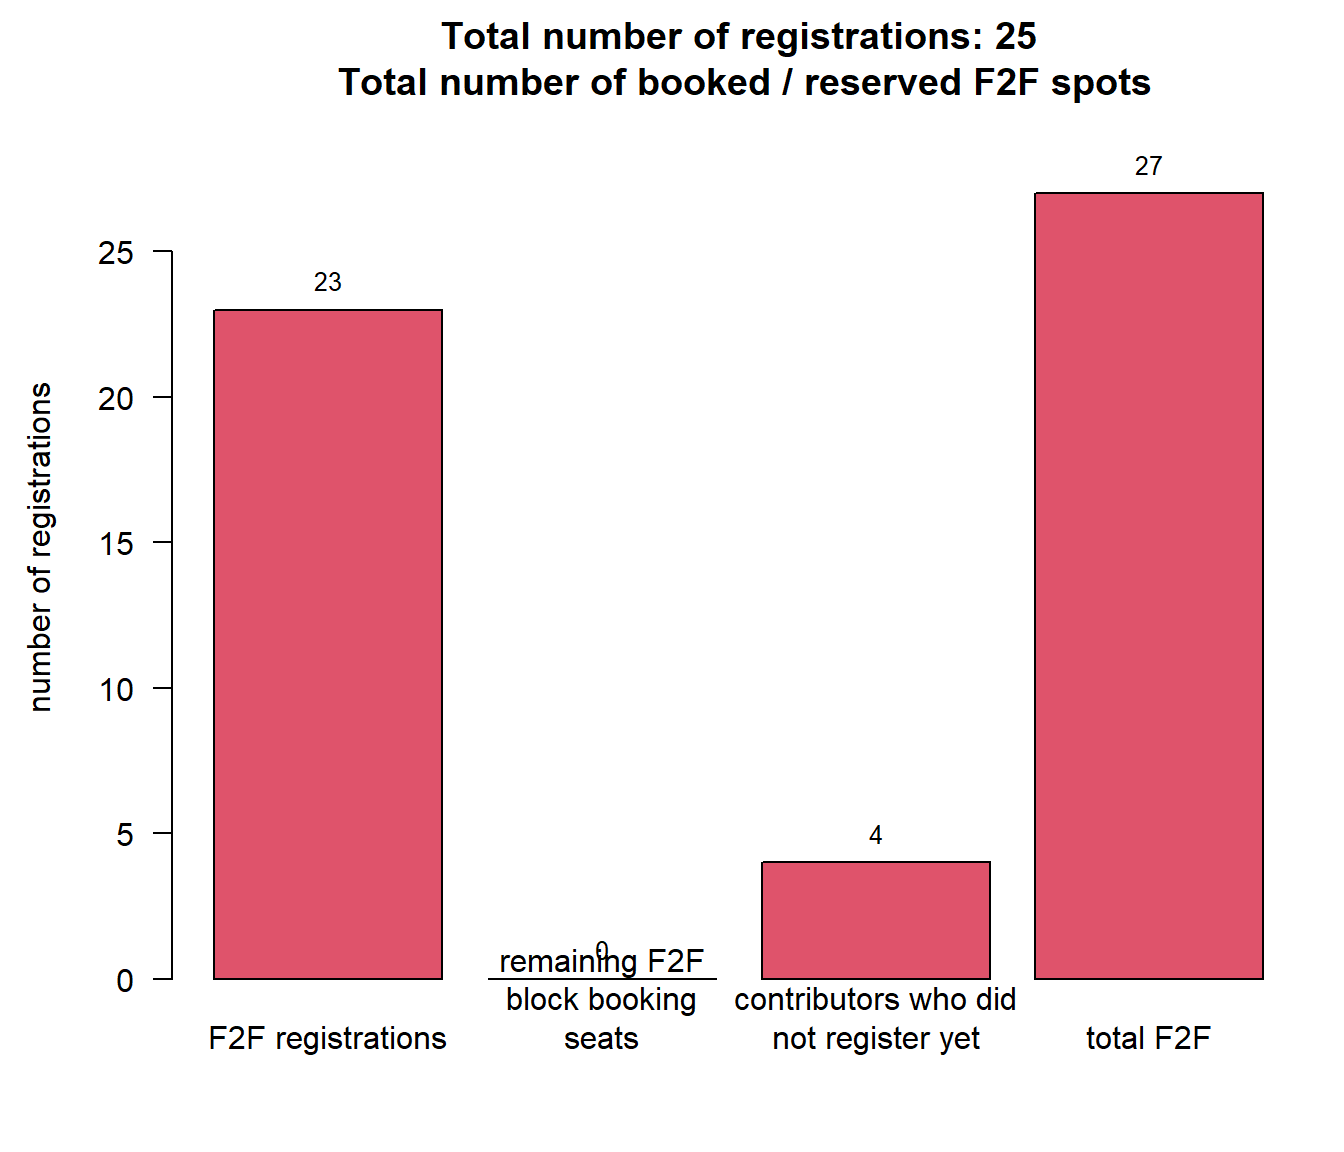
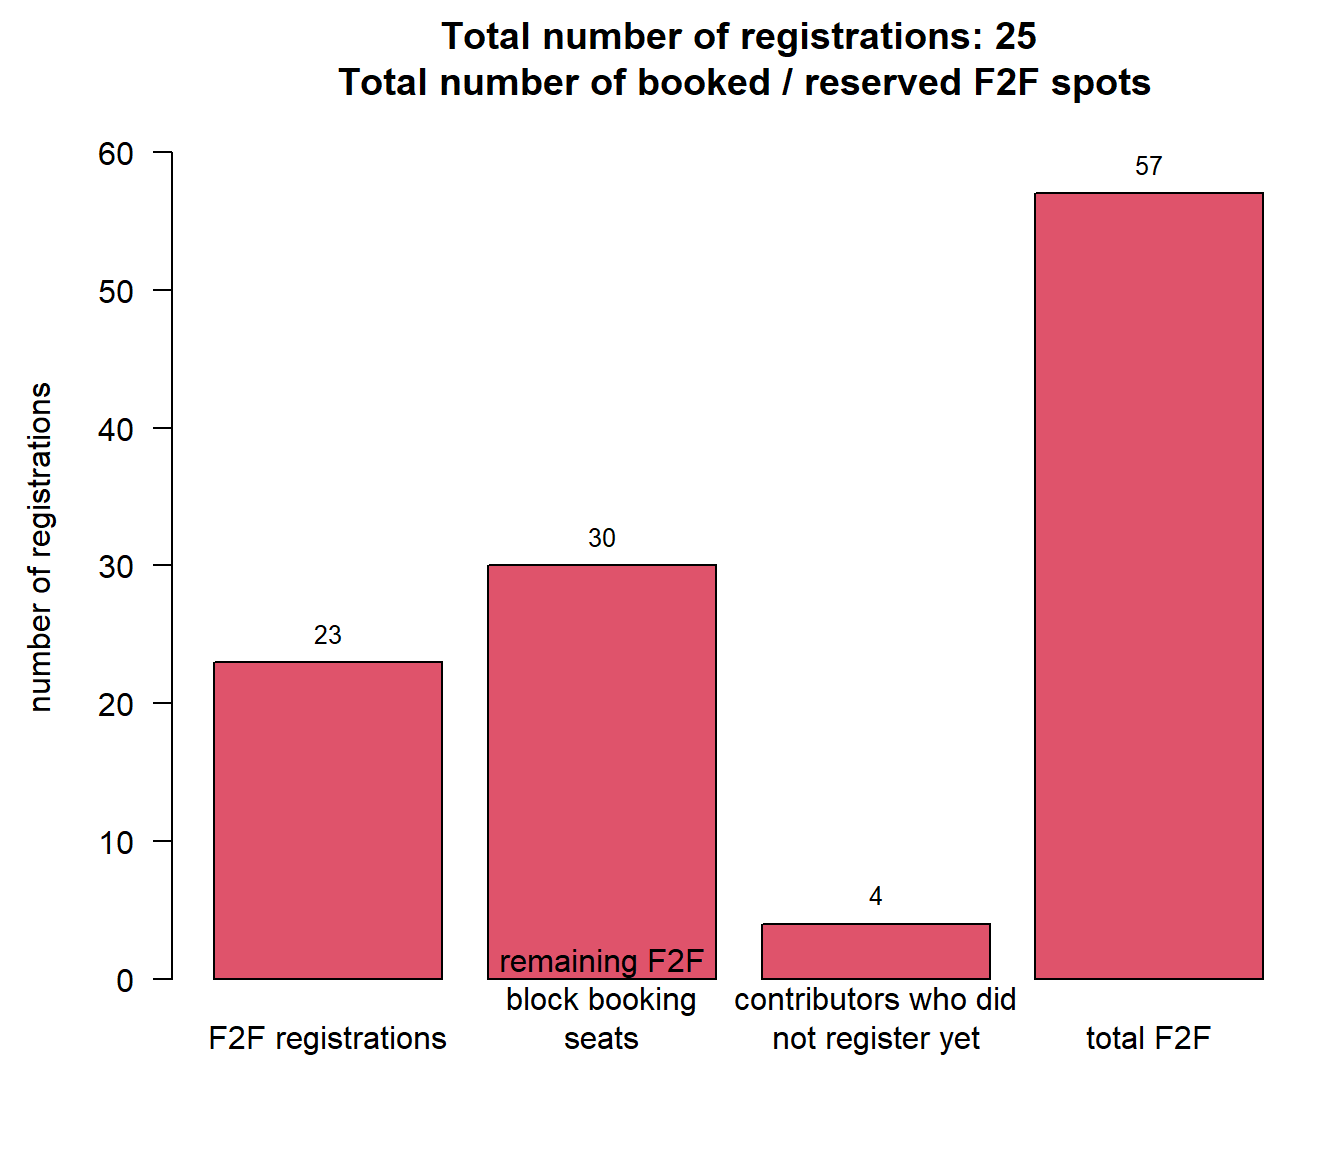
update

diff --git a/docs/registration_faq.html b/docs/registration_faq.html
@@ -205,10 +205,10 @@ ul.task-list li input[type="checkbox"] {
   </ul></li>
   <li><a href="#block-booking-for-face-to-face-and-virtual-participation-how-to-register" id="toc-block-booking-for-face-to-face-and-virtual-participation-how-to-register" class="nav-link" data-scroll-target="#block-booking-for-face-to-face-and-virtual-participation-how-to-register">Block booking for face-to-face AND virtual participation: how to register</a>
   <ul class="collapse">
-  <li><a href="#none-yet" id="toc-none-yet" class="nav-link" data-scroll-target="#none-yet">None yet</a></li>
+  <li><a href="#novartis" id="toc-novartis" class="nav-link" data-scroll-target="#novartis">Novartis</a></li>
   </ul></li>
   <li><a href="#block-booking-for-virtual-participation-only-how-to-register" id="toc-block-booking-for-virtual-participation-only-how-to-register" class="nav-link" data-scroll-target="#block-booking-for-virtual-participation-only-how-to-register">Block booking for virtual participation only: how to register</a></li>
-  <li><a href="#my-company-merck-kgaa-has-a-block-booking-for-virtual-participation-only.-i-still-want-to-attend-face-to-face.-how-much-do-i-need-to-pay" id="toc-my-company-merck-kgaa-has-a-block-booking-for-virtual-participation-only.-i-still-want-to-attend-face-to-face.-how-much-do-i-need-to-pay" class="nav-link" data-scroll-target="#my-company-merck-kgaa-has-a-block-booking-for-virtual-participation-only.-i-still-want-to-attend-face-to-face.-how-much-do-i-need-to-pay">My company (Merck KGaA) has a block booking for virtual participation only. I still want to attend face-to-face. How much do I need to pay?</a></li>
+  <li><a href="#my-company-merck-kgaa-bayer-has-a-block-booking-for-virtual-participation-only.-i-still-want-to-attend-face-to-face.-how-much-do-i-need-to-pay" id="toc-my-company-merck-kgaa-bayer-has-a-block-booking-for-virtual-participation-only.-i-still-want-to-attend-face-to-face.-how-much-do-i-need-to-pay" class="nav-link" data-scroll-target="#my-company-merck-kgaa-bayer-has-a-block-booking-for-virtual-participation-only.-i-still-want-to-attend-face-to-face.-how-much-do-i-need-to-pay">My company (Merck KGaA, Bayer) has a block booking for virtual participation only. I still want to attend face-to-face. How much do I need to pay?</a></li>
   <li><a href="#i-will-not-attend-the-full-workshop-andor-not-all-lunches.-do-i-get-a-deducation-for-the-face-to-face-registration-fee" id="toc-i-will-not-attend-the-full-workshop-andor-not-all-lunches.-do-i-get-a-deducation-for-the-face-to-face-registration-fee" class="nav-link" data-scroll-target="#i-will-not-attend-the-full-workshop-andor-not-all-lunches.-do-i-get-a-deducation-for-the-face-to-face-registration-fee">I will not attend the full workshop and/or not all lunches. Do I get a deducation for the face-to-face registration fee?</a></li>
   <li><a href="#i-have-registered-for-face-to-face-attendance-but-have-changed-my-mind-and-cannot-attend-not-even-virtually.-will-my-registration-fee-be-reimbursed" id="toc-i-have-registered-for-face-to-face-attendance-but-have-changed-my-mind-and-cannot-attend-not-even-virtually.-will-my-registration-fee-be-reimbursed" class="nav-link" data-scroll-target="#i-have-registered-for-face-to-face-attendance-but-have-changed-my-mind-and-cannot-attend-not-even-virtually.-will-my-registration-fee-be-reimbursed">I have registered for face-to-face attendance but have changed my mind and cannot attend, not even virtually. Will my registration fee be reimbursed?</a></li>
   <li><a href="#i-have-registered-for-face-to-face-attendance-but-have-changed-my-mind-and-will-attend-only-virtually.-will-my-registration-fee-be-reimbursed" id="toc-i-have-registered-for-face-to-face-attendance-but-have-changed-my-mind-and-will-attend-only-virtually.-will-my-registration-fee-be-reimbursed" class="nav-link" data-scroll-target="#i-have-registered-for-face-to-face-attendance-but-have-changed-my-mind-and-will-attend-only-virtually.-will-my-registration-fee-be-reimbursed">I have registered for face-to-face attendance but have changed my mind and will attend only virtually. Will my registration fee be reimbursed?</a></li>
@@ -378,8 +378,8 @@ ul.task-list li input[type="checkbox"] {
 <section id="block-booking-for-face-to-face-and-virtual-participation-how-to-register" class="level1">
 <h1>Block booking for face-to-face AND virtual participation: how to register</h1>
 <p>For 2026 the following companies have registered for a comprehensive block booking so far:</p>
-<section id="none-yet" class="level2">
-<h2 class="anchored" data-anchor-id="none-yet">None yet</h2>
+<section id="novartis" class="level2">
+<h2 class="anchored" data-anchor-id="novartis">Novartis</h2>
 <p>All colleagues working at companies with a block booking do not need to pay a registration fee for face-to-face or virtual participation. You simply register via <a href="https://forms.gle/yADwS2mSjrevJKuC9">this form</a> and indicate face-to-face or virtual attendance. You do not need to pay a registration fee, this is covered by your company via the block booking.</p>
 <p>Please indicate your expected participation in the meals / get‑together as accurately as possible. This information will help us plan the logistics effectively.</p>
 <!-- ## Novartis -->
@@ -390,11 +390,11 @@ ul.task-list li input[type="checkbox"] {
 </section>
 <section id="block-booking-for-virtual-participation-only-how-to-register" class="level1">
 <h1>Block booking for virtual participation only: how to register</h1>
-<p>For 2026, Merck KGaA have a a block booking for virtual participation, i.e.&nbsp;all colleagues working at at these companies do not need to pay a registration fee for virtual participation. Face-to-face registration fee remains the same.</p>
+<p>For 2026, Merck KGaA, Bayer have a a block booking for virtual participation, i.e.&nbsp;all colleagues working at these companies do not need to pay a registration fee for virtual participation. Face-to-face registration fee remains the same.</p>
 <p>You simply register via <a href="https://forms.gle/yADwS2mSjrevJKuC9">this form</a> and indicate virtual attendance. You do not need to pay a registration fee, this is covered by your company via a block booking.</p>
 </section>
-<section id="my-company-merck-kgaa-has-a-block-booking-for-virtual-participation-only.-i-still-want-to-attend-face-to-face.-how-much-do-i-need-to-pay" class="level1">
-<h1>My company (Merck KGaA) has a block booking for virtual participation only. I still want to attend face-to-face. How much do I need to pay?</h1>
+<section id="my-company-merck-kgaa-bayer-has-a-block-booking-for-virtual-participation-only.-i-still-want-to-attend-face-to-face.-how-much-do-i-need-to-pay" class="level1">
+<h1>My company (Merck KGaA, Bayer) has a block booking for virtual participation only. I still want to attend face-to-face. How much do I need to pay?</h1>
 <p>The full registration fee, 300 Euro.</p>
 </section>
 <section id="i-will-not-attend-the-full-workshop-andor-not-all-lunches.-do-i-get-a-deducation-for-the-face-to-face-registration-fee" class="level1">

diff --git a/docs/data/2026/analysis2026.html b/docs/data/2026/analysis2026.html
@@ -230,7 +230,7 @@ ul.task-list li input[type="checkbox"] {
 
 <section id="data-status" class="level1">
 <h1>Data status</h1>
-<p>Data as of 2026-03-05 at 11:39:00.</p>
+<p>Data as of 2026-03-05 at 14:01:12.</p>
 </section>
 <section id="registrations" class="level1 tabset tabset-fade tabset-pills">
 <h1 class="tabset tabset-fade tabset-pills">Registrations</h1>
@@ -378,15 +378,11 @@ ul.task-list li input[type="checkbox"] {
 <tbody>
 <tr class="odd">
 <td style="text-align: left;">Company</td>
-<td style="text-align: right;">NA</td>
-<td style="text-align: right;">NA</td>
-<td style="text-align: right;">NA</td>
+<td style="text-align: left;">Novartis</td>
 </tr>
 <tr class="even">
 <td style="text-align: left;">Pre-booked F2F seats</td>
-<td style="text-align: right;">0</td>
-<td style="text-align: right;">0</td>
-<td style="text-align: right;">0</td>
+<td style="text-align: left;">30</td>
 </tr>
 </tbody>
 </table>
@@ -401,15 +397,17 @@ ul.task-list li input[type="checkbox"] {
 <div id="tabset-2-2" class="tab-pane" role="tabpanel" aria-labelledby="tabset-2-2-tab">
 <table class="table">
 <colgroup>
-<col style="width: 57%">
-<col style="width: 24%">
-<col style="width: 17%">
+<col style="width: 48%">
+<col style="width: 15%">
+<col style="width: 20%">
+<col style="width: 15%">
 </colgroup>
 <thead>
 <tr class="header">
 <th style="text-align: left;"></th>
+<th style="text-align: center;">Bayer (N=1)</th>
 <th style="text-align: center;">Merck KGaA (N=2)</th>
-<th style="text-align: center;">Total (N=2)</th>
+<th style="text-align: center;">Total (N=3)</th>
 </tr>
 </thead>
 <tbody>
@@ -417,16 +415,19 @@ ul.task-list li input[type="checkbox"] {
 <td style="text-align: left;"><strong>mode</strong></td>
 <td style="text-align: center;"></td>
 <td style="text-align: center;"></td>
+<td style="text-align: center;"></td>
 </tr>
 <tr class="even">
 <td style="text-align: left;">&nbsp;&nbsp;&nbsp;Face-to-face (300 Euro)</td>
+<td style="text-align: center;">1 (100.0%)</td>
 <td style="text-align: center;">1 (50.0%)</td>
-<td style="text-align: center;">1 (50.0%)</td>
+<td style="text-align: center;">2 (66.7%)</td>
 </tr>
 <tr class="odd">
 <td style="text-align: left;">&nbsp;&nbsp;&nbsp;Virtual (100 Euro)</td>
+<td style="text-align: center;">0 (0.0%)</td>
 <td style="text-align: center;">1 (50.0%)</td>
-<td style="text-align: center;">1 (50.0%)</td>
+<td style="text-align: center;">1 (33.3%)</td>
 </tr>
 </tbody>
 </table>

diff --git a/docs/data/2025/analysis2025.html b/docs/data/2025/analysis2025.html
@@ -230,7 +230,7 @@ ul.task-list li input[type="checkbox"] {
 
 <section id="data-status" class="level1">
 <h1>Data status</h1>
-<p>Data as of 2026-03-05 at 11:38:45.</p>
+<p>Data as of 2026-03-05 at 14:00:52.</p>
 </section>
 <section id="registrations" class="level1 tabset tabset-fade tabset-pills">
 <h1 class="tabset tabset-fade tabset-pills">Registrations</h1>
@@ -431,19 +431,15 @@ ul.task-list li input[type="checkbox"] {
 <div id="tabset-2-2" class="tab-pane" role="tabpanel" aria-labelledby="tabset-2-2-tab">
 <table class="table">
 <colgroup>
-<col style="width: 41%">
-<col style="width: 13%">
-<col style="width: 11%">
+<col style="width: 55%">
+<col style="width: 25%">
 <col style="width: 18%">
-<col style="width: 14%">
 </colgroup>
 <thead>
 <tr class="header">
 <th style="text-align: left;"></th>
-<th style="text-align: center;">Bayer (N=79)</th>
-<th style="text-align: center;">BMS (N=83)</th>
 <th style="text-align: center;">Merck KGaA (N=60)</th>
-<th style="text-align: center;">Total (N=222)</th>
+<th style="text-align: center;">Total (N=60)</th>
 </tr>
 </thead>
 <tbody>
@@ -451,22 +447,16 @@ ul.task-list li input[type="checkbox"] {
 <td style="text-align: left;"><strong>mode</strong></td>
 <td style="text-align: center;"></td>
 <td style="text-align: center;"></td>
-<td style="text-align: center;"></td>
-<td style="text-align: center;"></td>
 </tr>
 <tr class="even">
 <td style="text-align: left;">&nbsp;&nbsp;&nbsp;Face-to-face (280 Euro)</td>
-<td style="text-align: center;">13 (16.5%)</td>
-<td style="text-align: center;">5 (6.0%)</td>
 <td style="text-align: center;">2 (3.3%)</td>
-<td style="text-align: center;">20 (9.0%)</td>
+<td style="text-align: center;">2 (3.3%)</td>
 </tr>
 <tr class="odd">
 <td style="text-align: left;">&nbsp;&nbsp;&nbsp;Virtual (70 Euro)</td>
-<td style="text-align: center;">66 (83.5%)</td>
-<td style="text-align: center;">78 (94.0%)</td>
 <td style="text-align: center;">58 (96.7%)</td>
-<td style="text-align: center;">202 (91.0%)</td>
+<td style="text-align: center;">58 (96.7%)</td>
 </tr>
 </tbody>
 </table>

diff --git a/docs/data/2024/analysis2024.html b/docs/data/2024/analysis2024.html
@@ -238,7 +238,7 @@ ul.task-list li input[type="checkbox"] {
 
 <section id="data-status" class="level1">
 <h1>Data status</h1>
-<p>Data as of 2026-03-05 at 11:38:34.</p>
+<p>Data as of 2026-03-05 at 14:00:28.</p>
 </section>
 <section id="registrations-by-type-of-institution" class="level1">
 <h1>Registrations by type of institution</h1>
